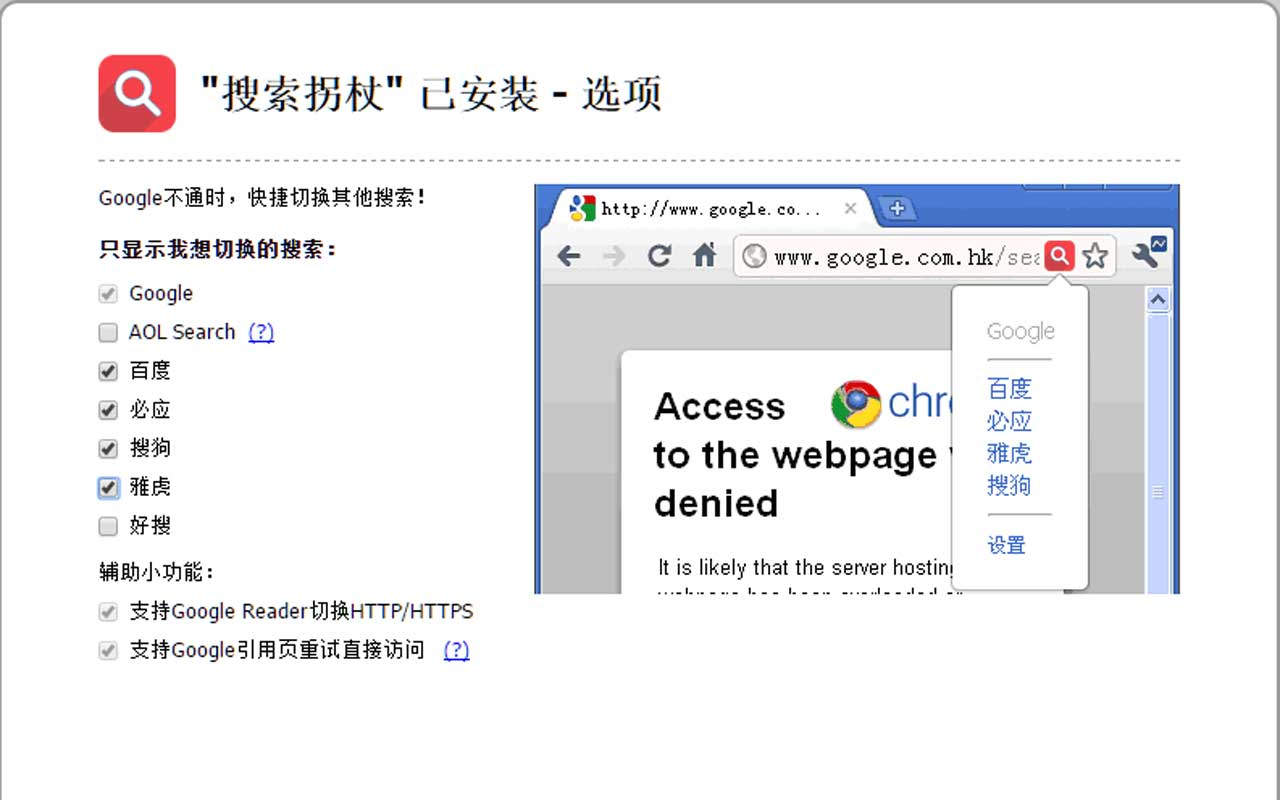
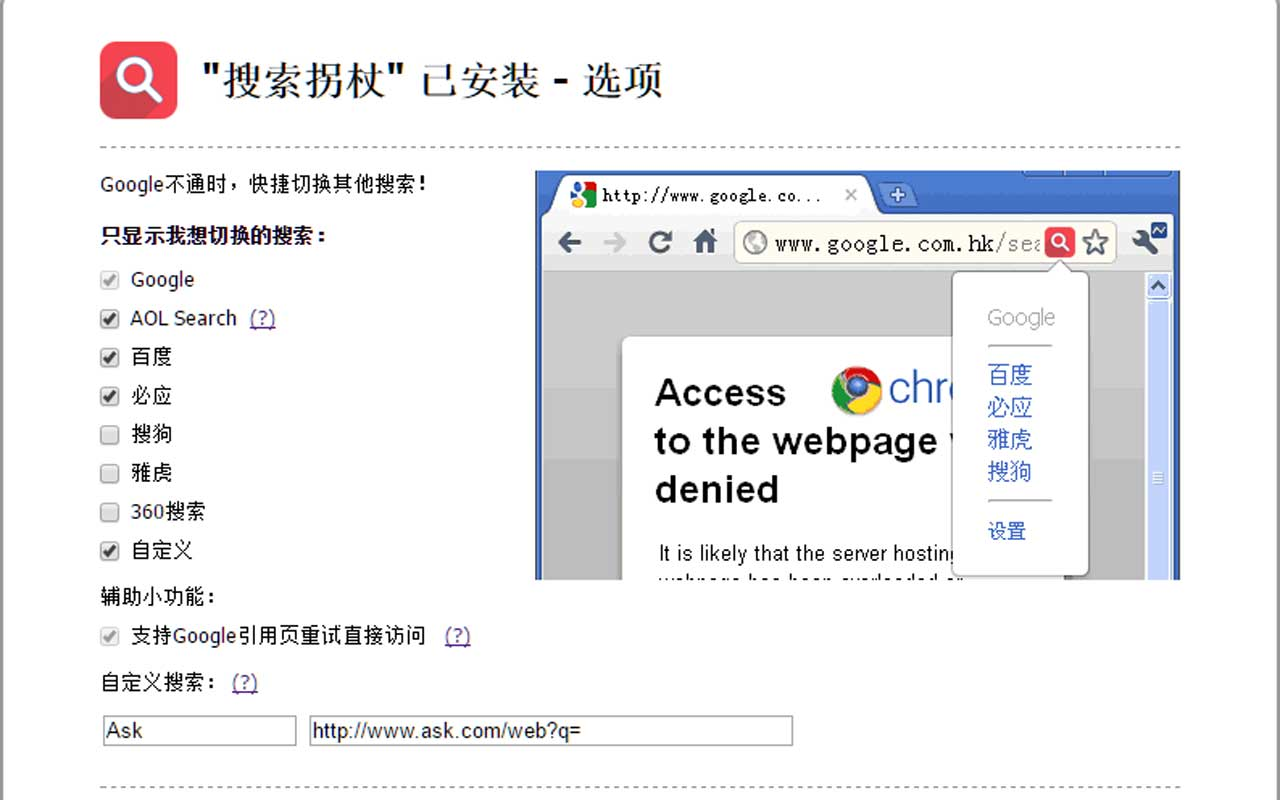
V3.8. 支持Bing和Aol Search的变形形式切换。

diff --git a/js/base.js b/js/base.js
@@ -25,8 +25,10 @@ var searchhost_array =
 	['www.google.com',0],
 	['www.google.com.hk',0],
 	['www.aolsearch.com',1],
+	['search.aol.com',1],
 	['www.baidu.com',2],
 	['cn.bing.com',3],
+	['www.bing.com',3],
 	['search.yahoo.com',4],
 	['www.sogou.com',5],
 	['www.so.com',6]
